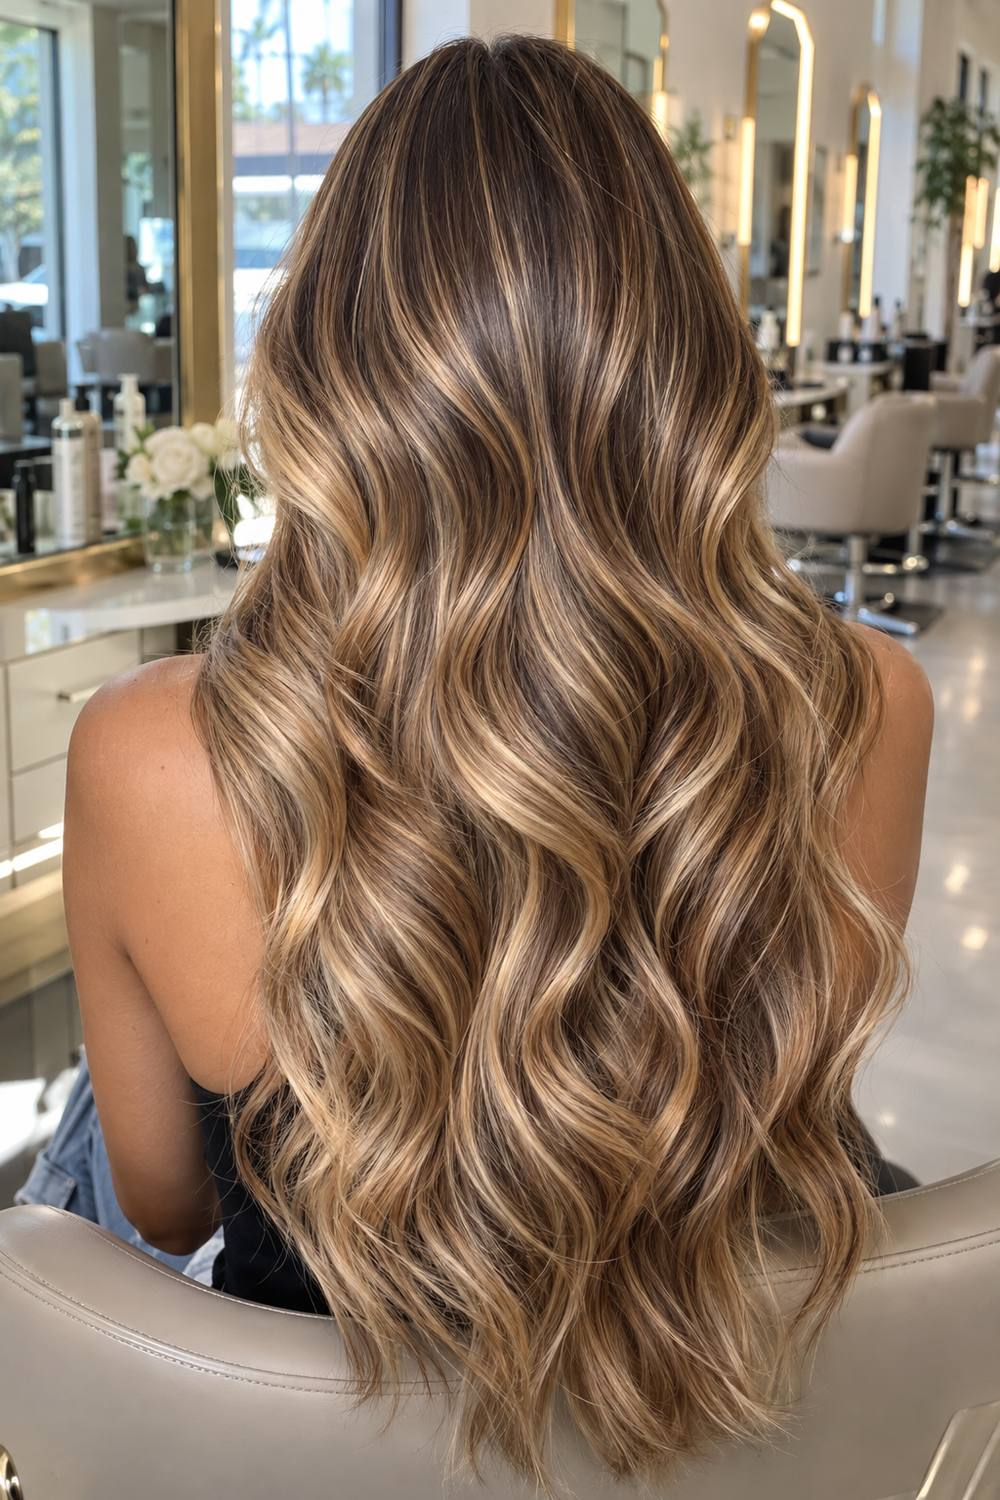
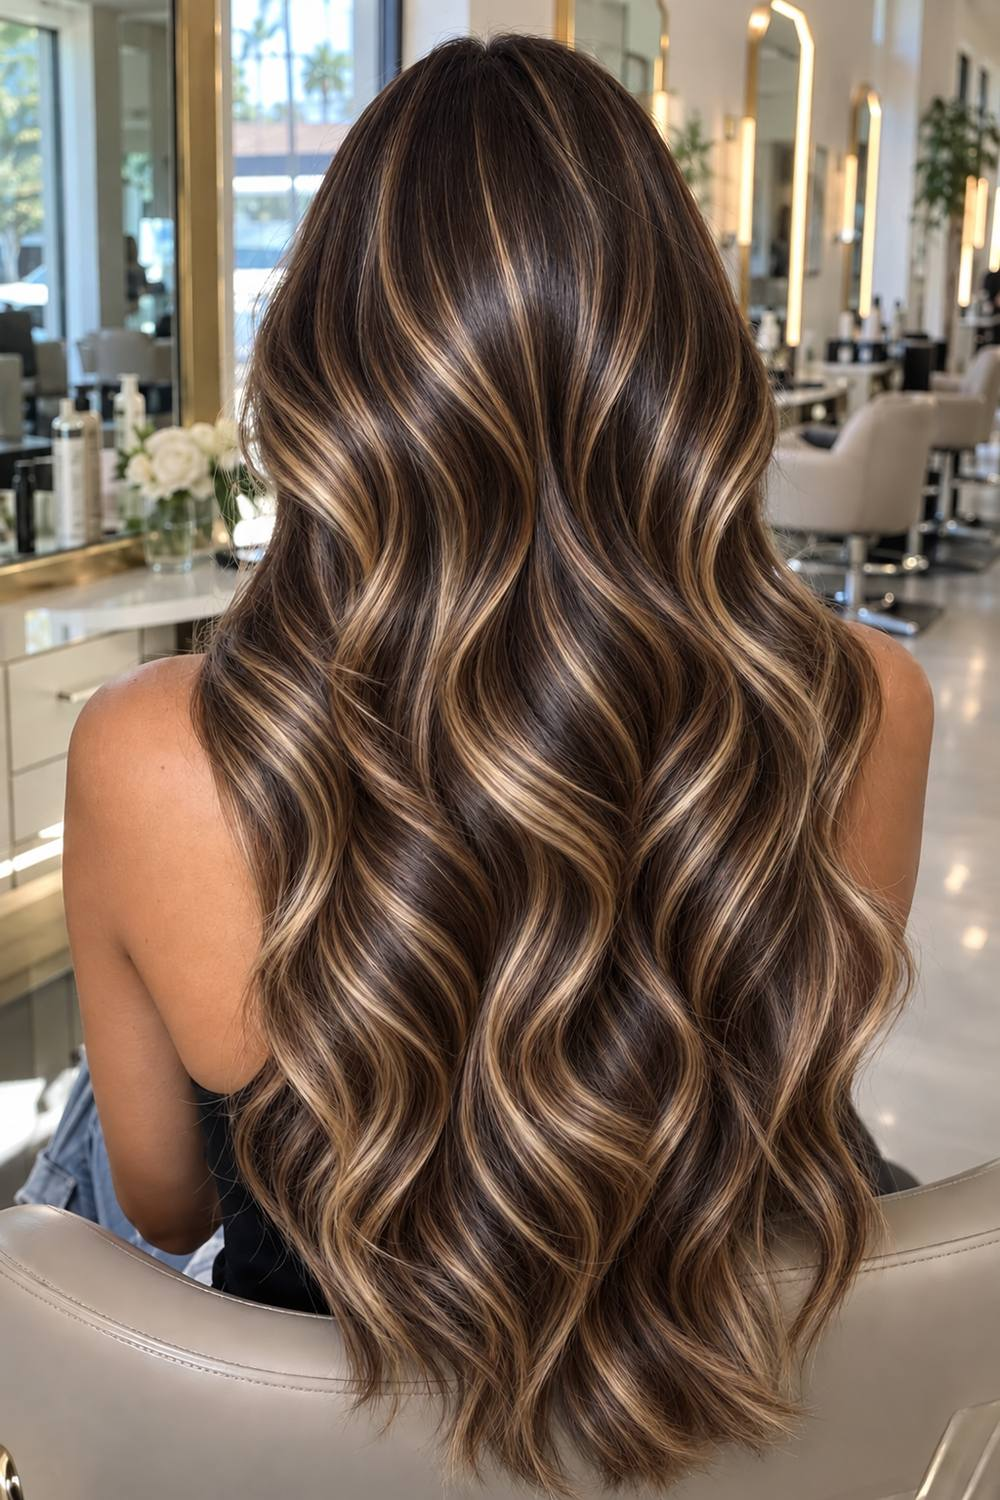
Redraw back and side hero images via Fal.ai and keep v1 backups

diff --git a/index.html b/index.html
@@ -63,10 +63,10 @@
         <!-- LEFT MIRROR LEAF: BACK POSE -->
         <article class="triptych-panel triptych-panel--left" data-slide-index="1">
           <picture class="triptych-picture">
-            <source srcset="assets/images/hero/hero-left-back.webp" type="image/webp" />
+            <source srcset="assets/images/hero/hero-left-back.webp?v=2" type="image/webp" />
             <img
-              src="assets/images/hero/hero-left-back.jpg"
-              alt="Cascading dimensional honey-caramel balayage waves at MANGO Hair Studio"
+              src="assets/images/hero/hero-left-back.jpg?v=2"
+              alt="Layered dark hair with dimensional blonde highlights at MANGO Hair Studio"
               class="triptych-img"
               width="1000"
               height="1500"
@@ -93,10 +93,10 @@
         <!-- RIGHT MIRROR LEAF: SIDE POSE -->
         <article class="triptych-panel triptych-panel--right" data-slide-index="2">
           <picture class="triptych-picture">
-            <source srcset="assets/images/hero/hero-right-side.webp" type="image/webp" />
+            <source srcset="assets/images/hero/hero-right-side.webp?v=2" type="image/webp" />
             <img
-              src="assets/images/hero/hero-right-side.jpg"
-              alt="Copper-gold silk waves at MANGO Hair Studio"
+              src="assets/images/hero/hero-right-side.jpg?v=2"
+              alt="Dark red and copper gloss waves at MANGO Hair Studio"
               class="triptych-img"
               width="1000"
               height="1500"
